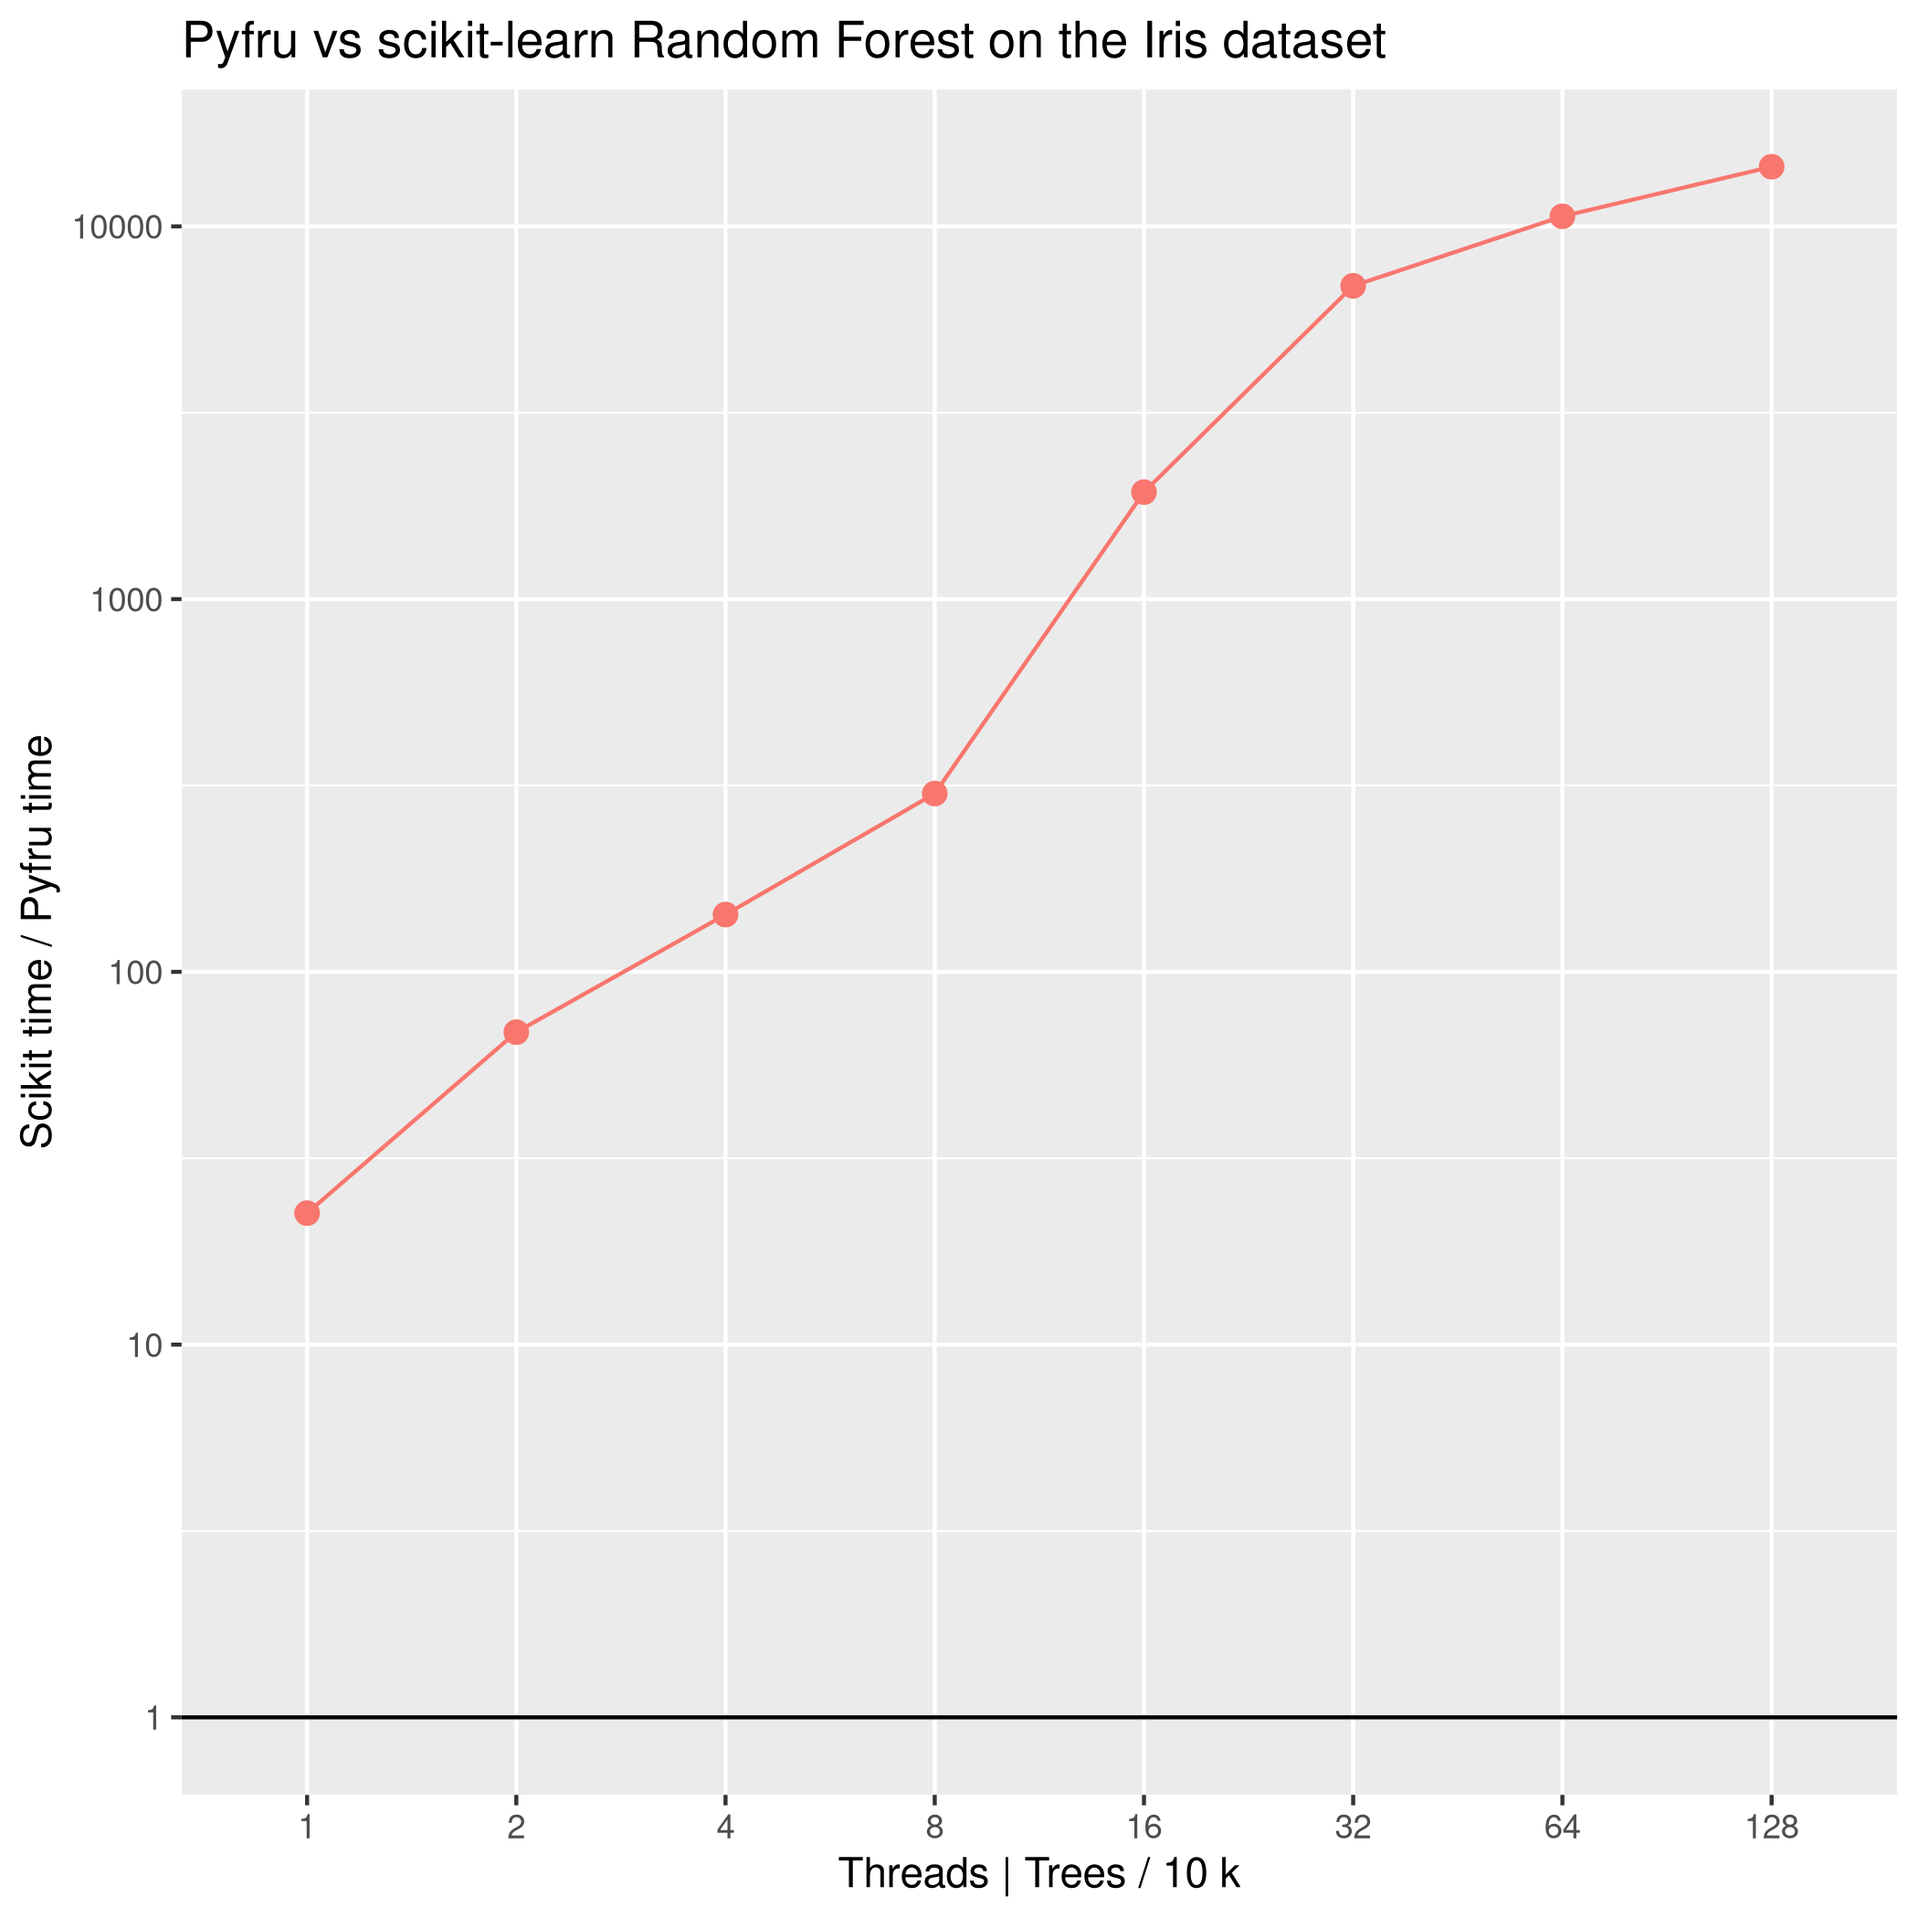
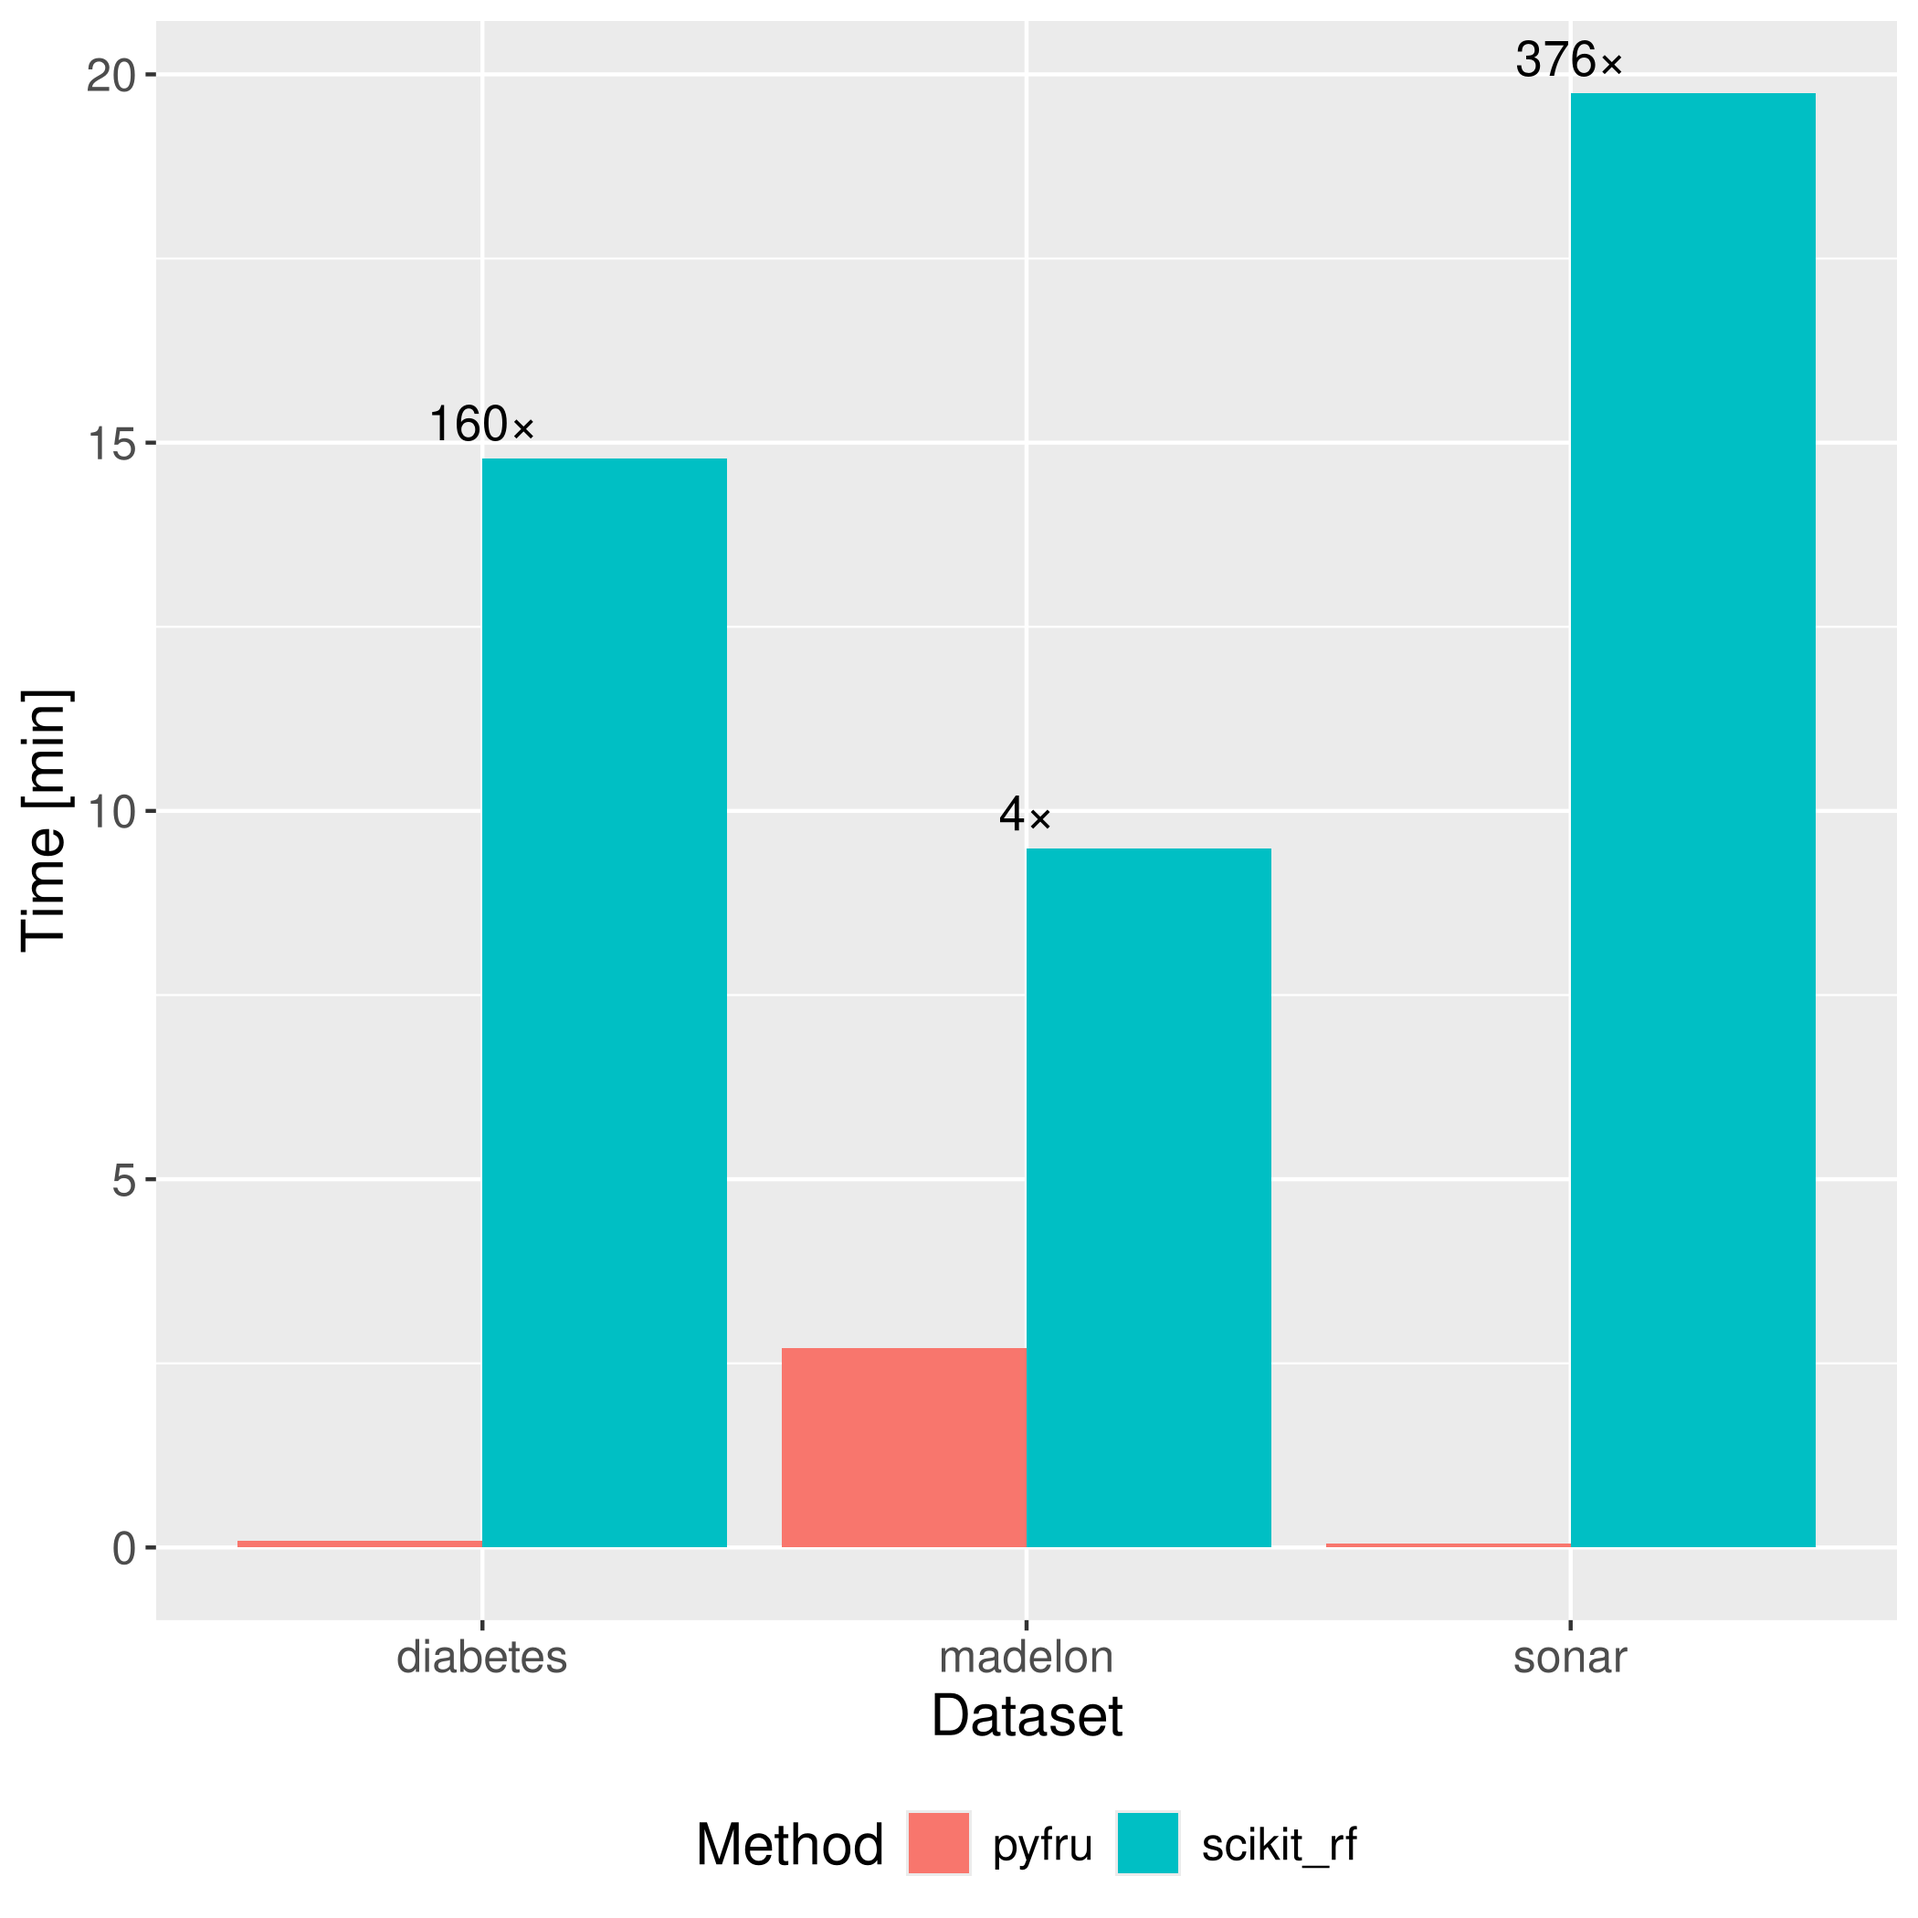
Improved plot

diff --git a/README.md b/README.md
@@ -8,9 +8,9 @@ making integration with any library that supports it - ``polars``, ``pandas``, `
 Moreover, it features permutation importance with a novel, highly optimized algorithm.
 It can be used for both **classification** and **regression**, as well as out-of-bag predictions.
 
-Fru is typically 10 to several thousand times faster than the scikit-learn implementation of Random Forest.
-The gap increases as you use more threads.
+Fru is typically anywhere from a few times to several thousand times faster than scikit-learn's Random Forest implementation.
+The performance gap widens as the number of threads increases.
 
-The plot below shows how the difference scales with the number of threads on the Iris dataset.
+The plot below illustrates this difference.
 
 ![Compare to scikit](https://raw.githubusercontent.com/kpiwonski/fru-arrow/refs/heads/main/plt_cmp_scikit.png)
